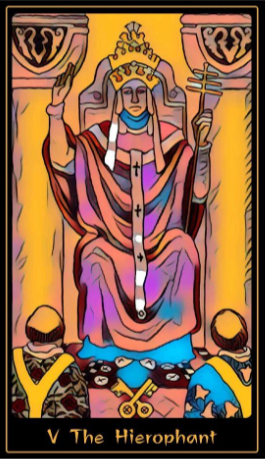
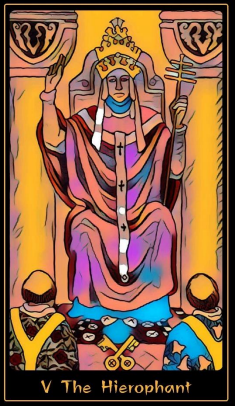
added the js for the rest of the cards, added the images for tarot cards, added some card styling

diff --git a/script.js b/script.js
@@ -27,15 +27,31 @@ var cardOneSelect = document.getElementById('card-one-button');
 
 //card tarot card two
 var cardTwoTitle = document.getElementById('second-card-title');
-var cardTwoDesc = document.getElementById('second-card-desc');
 var cardTwoMeaningUp = document.getElementById('second-card-meaning_up');
 var cardTwoPic = document.getElementById('card-two-pic');
+var cardTwoSelect = document.getElementById('card-two-button')
 
 //card tarot card three
 var cardThreeTitle = document.getElementById('third-card-title');
-var cardThreeDesc = document.getElementById('third-card-desc');
 var cardThreeMeaningUp = document.getElementById('third-card-meaning_up');
 var cardThreePic = document.getElementById('card-three-pic');
+var cardThreeSelect = document.getElementById('card-three-button');
+
+
+//card cocktail one
+var cocktailNameOne = document.getElementById('cocktail-name-one');
+var cocktailIngredientsOne = document.getElementById('ingredients-one');
+var cocktailDirectionsOne = document.getElementById('directions-one');
+
+//card cocktail two
+var cocktailNameTwo = document.getElementById('cocktail-name-two');
+var cocktailIngredientsTwo = document.getElementById('ingredients-two');
+var cocktailDirectionsTwo = document.getElementById('directions-two');
+
+//card cocktail two
+var cocktailNameThree = document.getElementById('cocktail-name-three');
+var cocktailIngredientsThree = document.getElementById('ingredients-three');
+var cocktailDirectionsThree = document.getElementById('directions-three');
 
 //buttons
 var startBtn = document.getElementById('start');//variable to grab the start button
@@ -140,7 +156,7 @@ startBtn.addEventListener('click', function(){
     }
 
     console.log(userArray)
-    //fetching the Tarot Cards API
+    //fetching the Tarot Cards API 
     fetch('https://rws-cards-api.herokuapp.com/api/v1/cards')
     .then(response => response.json())
     .then(cards => {
@@ -167,11 +183,9 @@ startBtn.addEventListener('click', function(){
         cardOnePic.src = pngOne;
         cardOne.classList.add(cardOnePicTitle);
 
-        //card two NEIL HELPPPPPP
+        //card two
         cardTwoTitleText = resultsArray[1]['name'];
         console.log(cardTwoTitleText);
-        var cardTwoDescText = resultsArray[1]['desc'];
-        console.log(cardTwoDescText);
         var cardTwoMeaningUpText = resultsArray[1]['meaning_up'];
         console.log(cardTwoMeaningUpText);
         var cardTwoPicTitle = cardTwoTitleText.split(" ").join("")//Removes spaces from title to format for jpeg
@@ -179,27 +193,24 @@ startBtn.addEventListener('click', function(){
         console.log(pngTwo)
 
         cardTwoTitle.innerText = cardTwoTitleText;
-        cardTwoDesc.innerText = cardTwoDescText;
         cardTwoMeaningUp.innerText = cardTwoMeaningUpText;
-        cardTwoPic.src=pngTwo
+        cardTwoPic.src = pngTwo;
         cardTwo.classList.add(cardTwoPicTitle);
+
     
 
         //card three NEIL HELP HERE TOOOOOOO
         cardThreeTitleText = resultsArray[2]['name'];
         console.log(cardThreeTitleText);
-        var cardThreeDescText = resultsArray[2]['desc'];
-        console.log(cardThreeDescText);
         var cardThreeMeaningUpText = resultsArray[2]['meaning_up'];
         console.log(cardThreeMeaningUpText);
         var cardThreePicTitle = cardThreeTitleText.split(" ").join("")//Removes spaces from title to format for jpeg
         var pngThree = "assets/"+cardThreePicTitle + ".PNG";
-        console.log(pngThree)
+        console.log(pngTwo)
 
         cardThreeTitle.innerText = cardThreeTitleText;
-        cardThreeDesc.innerText = cardThreeDescText;
         cardThreeMeaningUp.innerText = cardThreeMeaningUpText;
-        cardThreePic.src=pngThree
+        cardThreePic.src = pngThree;
         cardThree.classList.add(cardThreePicTitle);
 
         cardOne.classList.remove("hidden");
@@ -264,9 +275,28 @@ startBtn.addEventListener('click', function(){
             drinksFiltered.push(options)
         }
         console.log(drinksFiltered)
+        cocktailNameOne = drinksFiltered[0]['strDrink'];
+        console.log(cocktailNameOne)
+        var searchNameOne = cocktailNameOne.split(" ").join("%")
+        console.log(searchNameOne)
+
+        cardOneTitle.innerText = cocktailNameOne;
+
+        fetch('https://www.thecocktaildb.com/api/json/v1/1/search.php?s='+searchNameOne)//changes based on user's choice of cocktail
+        .then(response => response.json())
+        .then(cocktailDetails => {
+            console.log(cocktailDetails);
+            cocktailArray = cocktailDetails['drinks'];
+            console.log(cocktailArray)
+            ingredients = cocktailArray[0]['strIngredient1']
+            console.log(ingredients)
+        })
+
     })
 })
-    cardTwo.addEventListener('click', function(){
+    cardTwoSelect.addEventListener('click', function(){
+        tarotCards.classList.add("hidden")
+        cocktailCards.classList.remove("hidden");
         if (cardOne.classList.contains("TheHierophant")){ //will need an else if statement for each card Name and add to card One Two and Three
             alcohol="brandy"
         }   else if (cardOne.classList.contains("Justice")){
@@ -317,7 +347,9 @@ startBtn.addEventListener('click', function(){
             console.log(drinksFiltered)
         })
     })
-    cardThree.addEventListener('click', function(){
+    cardThreeSelect.addEventListener('click', function(){
+        tarotCards.classList.add("hidden")
+        cocktailCards.classList.remove("hidden");
         if (cardOne.classList.contains("TheHierophant")){ //will need an else if statement for each card Name and add to card One Two and Three
             alcohol="brandy"
         }   else if (cardOne.classList.contains("Justice")){

diff --git a/index.html b/index.html
@@ -80,7 +80,7 @@
                     <!-- Back of card -->
                     <div class="card__face card__face--back">
                         <h2 class="card-title" id="first-card-title">Card title</h2>
-                        <p class="text" id="first-card-meaning_up">Some quick example text to build on the card.</p>
+                        <h3 class="text" id="first-card-meaning_up">Some quick example text to build on the card.</h3>
                         <button id ="card-one-button" class="select-btn">Select</button>
                     </div>
                 </div>
@@ -93,8 +93,8 @@
                 <img src="" id="card-two-pic">
               </div>
               <div class="card__face card__face--back">
-                <h5 class="card-title" id="second-card-title">Card title</h5>
-                <p class="text" id="second-card-desc">Some quick example text to build on the card.</p>
+                <h2 class="card-title" id="second-card-title">Card title</h2>
+                <h3 class="text" id="second-card-meaning_up">Some quick example text to build on the card.</h3>
                 <button id ="card-two-button" class="select-btn">Select</button>
               </div>
             </div>
@@ -107,8 +107,8 @@
                 <img src="" id="card-three-pic">
               </div>
               <div class="card__face card__face--back">
-                <h5 class="card-title" id="third-card-title">Card title</h5>
-                <p class="text" id="third-card-desc">Some quick example text to build on the card.</p>
+                <h2 class="card-title" id="third-card-title">Card title</h2>
+                <h3 class="text" id="third-card-meaning_up">Some quick example text to build on the card.</h3>
                 <button id ="card-three-button" class="select-btn">Select</button>
               </div>
             </div>
@@ -126,13 +126,13 @@
       <div class="scene scene--card">
           <div class="card" id="cocktail-one">
             <div class="card__face card__face--front">
-              <h1 class="card-title" id="cocktail-name">Indepence Spice</h1>
+              <h1 class="card-title" id="cocktail-name-one">Indepence Spice</h1>
               <h2 class="card-title">Ingredients</h2>
-              <p class="text" id="ingredients">Some quick example <br> text to build <br> on the card.</p>
+              <p class="text" id="ingredients-one">Some quick example <br> text to build <br> on the card.</p>
             </div>
             <div class="card__face card__face--back">
               <h2 class="card-title">Directions</h2>
-              <p class="text" id="directions">Some quick example text to build on the card.</p>
+              <p class="text" id="directions-one">Some quick example text to build on the card.</p>
             </div>
           </div>
         </div>
@@ -140,13 +140,13 @@
         <div class="scene scene--card">
             <div class="card" id="cocktail-two">
               <div class="card__face card__face--front">
-                <h1 class="card-title" id="cocktail-name">Card Title</h1>
+                <h1 class="card-title" id="cocktail-name-two">Card Title</h1>
                 <h2 class="card-title">Ingredients</h2>
-                <p class="text" id="ingredients">Some quick example  text to build on the card.</p>
+                <p class="text" id="ingredients-two">Some quick example  text to build on the card.</p>
               </div>
               <div class="card__face card__face--back">
                 <h2 class="card-title">Directions</h2>
-                <p class="text" id="instructions">Some quick example text to build on the card.</p>
+                <p class="text" id="directions-two">Some quick example text to build on the card.</p>
               </div>
             </div>
         </div>
@@ -154,13 +154,13 @@
         <div class="scene scene--card">
           <div class="card" id="cocktail-three">
             <div class="card__face card__face--front">
-              <h1 class="card-title" id="cocktail-name">Card Title</h1>
+              <h1 class="card-title" id="cocktail-name-three">Card Title</h1>
               <h2 class="card-title">Ingredients</h2>
-              <p class="text" id="ingredients">Some quick example text to build on the card.</p>
+              <p class="text" id="ingredients-three">Some quick example text to build on the card.</p>
             </div>
             <div class="card__face card__face--back">
               <h2 class="card-title">Directions</h2>
-              <p class="text" id="directions">Some quick example text to build on the card.</p>
+              <p class="text" id="directions-three">Some quick example text to build on the card.</p>
             </div>
           </div>
         </div>

diff --git a/style.css b/style.css
@@ -19,6 +19,11 @@ p {
     font-size: 2.5rem;
 }
 
+img{
+    width: 100%;
+    border-radius: 5%;
+}
+
 .main-box {
     position: absolute;
     top: 65%;
@@ -133,12 +138,16 @@ p {
   
   .card__face--front {
     background: rgb(171, 84, 230);
+    border-radius: 5%;
   }
   
   .card__face--back {
     /* background: ; */
     background-image: linear-gradient(315deg, #e056fd 0%, #000000 74%);
     transform: rotateY(180deg);
+    border-radius: 5%;
+    padding: 1rem;
+
   }
 
   .hidden {
